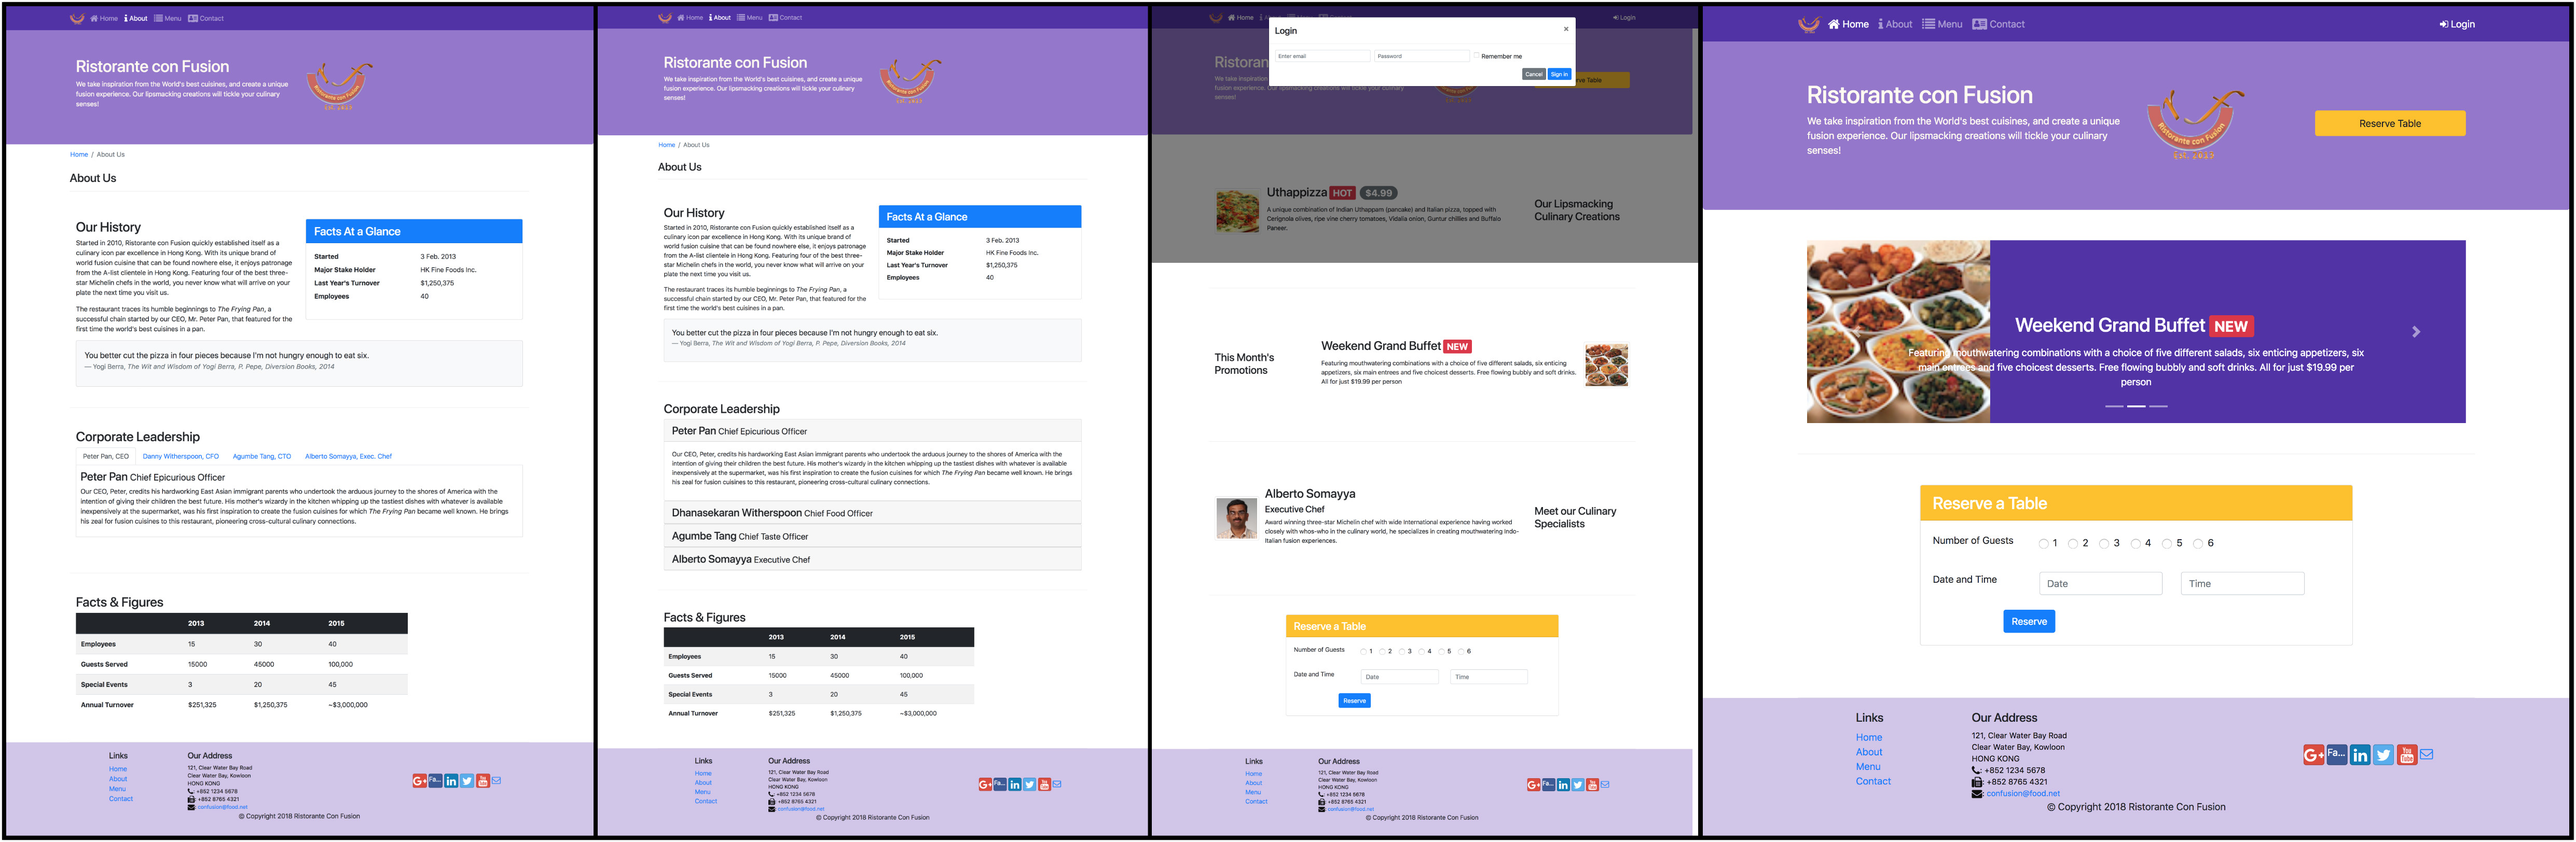
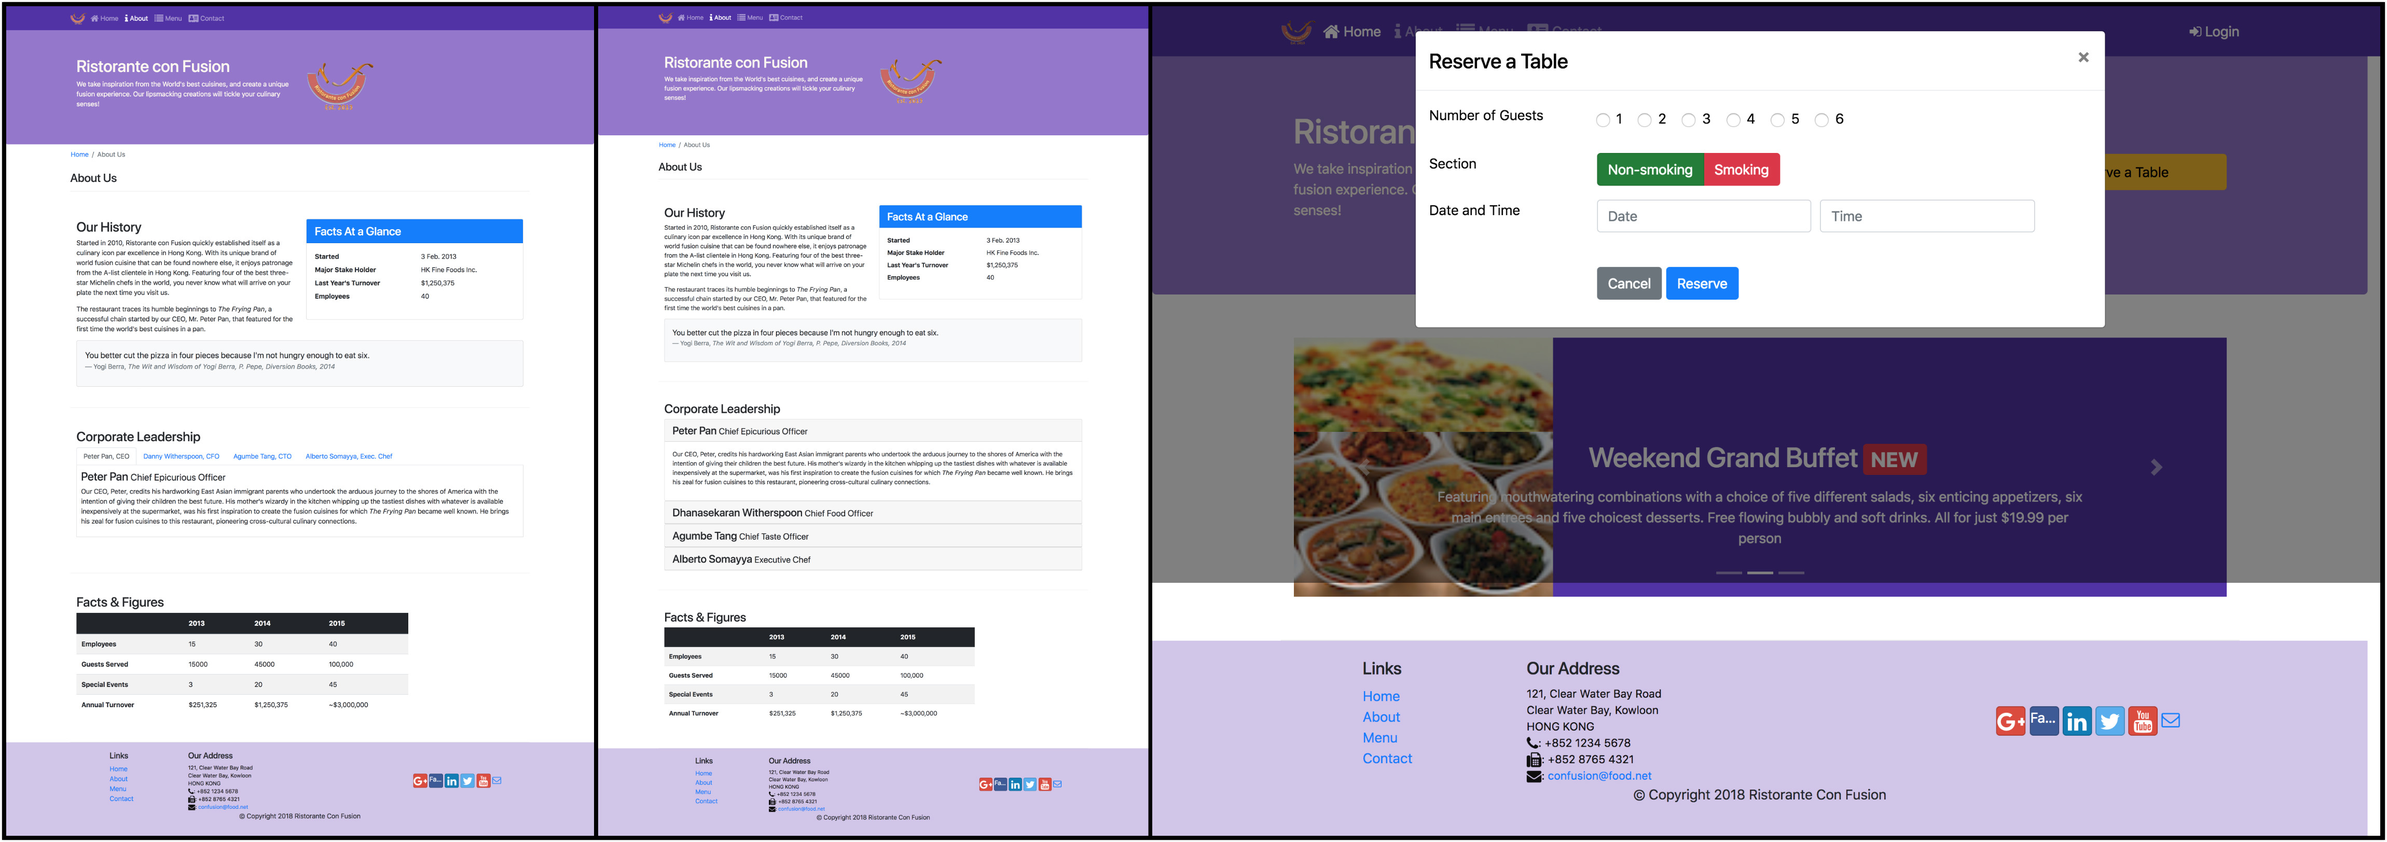
Update content

diff --git a/exercise/Assignment3/index.html b/exercise/Assignment3/index.html
@@ -26,9 +26,9 @@
             <div class="collapse navbar-collapse" id="Navbar">
                 <ul class="navbar-nav mr-auto">
                     <li class="nav-item active"><a class="nav-link" href="#"><span class="fa fa-home fa-lg"></span> Home</a></li>
-                    <li class="nav-item"><a class="nav-link" href="#"><span class="fa fa-info fa-lg"></span> About</a></li>
+                    <li class="nav-item"><a class="nav-link" href="./aboutus.html"><span class="fa fa-info fa-lg"></span> About</a></li>
                     <li class="nav-item"><a class="nav-link" href="#"><span class="fa fa-list fa-lg"></span> Menu</a></li>
-                    <li class="nav-item"><a class="nav-link" href="#"><span class="fa fa-address-card fa-lg"></span> Contact</a></li>
+                    <li class="nav-item"><a class="nav-link" href="contactus.html"><span class="fa fa-address-card fa-lg"></span> Contact</a></li>
                 </ul> 
                 <span class="navbar-text">
                     <a data-toggle="modal" data-target="#loginModal">
@@ -85,15 +85,77 @@
                 <div class="col-12 col-sm-3 align-self-center">
                     <img src="img/logo.png" class="img-fluid">
                 </div>
-                <div class="col-12 col-sm-3 align-self-center">
-                    <a role="button" class="btn btn-block nav-link btn-warning"
-                        data-toggle="tooltip" data-html="true"  title="Or Call us at  <br><strong>+852 12345678</strong>"
-                        data-placement="bottom" href="#reserveform">Reserve Table</a>
+                <div id="reserveButton" class="col-12 col-sm-3 align-self-center">
+                    <!-- Button trigger modal -->
+                    <a role="button" class="modal-title btn btn-block nav-link btn-warning" data-toggle="modal" data-target="#reserveModal">Reserve a Table</a>
+                    <!-- Modal -->
+                    <div id="reserveModal" class="modal fade" role="dialog">
+                        <div class="modal-dialog modal-lg" role="content">
+                            <div class="modal-content">
+                                <div class="modal-header">
+                                    <h4 class="modal-title">Reserve a Table</h4>
+                                    <button type="button" class="close" data-dismiss="modal">&times;</button>
+                                </div>
+                                <div class="modal-body">
+                                    <form>
+                                        <div class="form-row">
+                                                <div class="form-group col-12 col-sm-3">Number of Guests</div>
+                                                <div class="form-group col">
+                                                    <input type="radio" id="choice1" name="number" value="1">&nbsp;
+                                                    <label for="choice1">1</label>
+                                                    <input type="radio" id="choice2" name="number" value="2">&nbsp;
+                                                    <label for="choice2">2</label>   
+                                                    <input type="radio" id="choice3" name="number" value="3">&nbsp;
+                                                    <label for="choice3">3</label>
+                                                    <input type="radio" id="choice4" name="number" value="4">&nbsp;
+                                                    <label for="choice4">4</label>
+                                                    <input type="radio" id="choice5" name="number" value="5">&nbsp;
+                                                    <label for="choice5">5</label>
+                                                    <input type="radio" id="choice6" name="number" value="6">&nbsp;
+                                                    <label for="choice6">6</label>
+                                                </div>
+                                        </div>
+                                        <div class="form-row">
+                                            <div class="form-group col-12 col-sm-3">Section</div>
+                                            <div class="form-group col-12 col-sm">
+                                                <div class="btn-group btn-group-toggle" data-toggle="buttons">
+                                                  <label class="btn btn-success active">
+                                                    <input type="radio" name="options" id="option1" autocomplete="off" checked> Non-smoking
+                                                  </label>
+                                                  <label class="btn btn-danger">
+                                                    <input type="radio" name="options" id="option2" autocomplete="off"> Smoking
+                                                  </label>
+                                                </div>
+                                            </div>
+                                        </div>
+                                        <div class="form-row">
+                                            <div class="form-group col-12 col-sm-3">Date and Time</div>
+                                            <div class="form-group col-12 col-sm-4">
+                                                <input type="text" class="form-control" id="date" name="date" placeholder="Date">
+                                            </div>
+                                            <div class="form-group col-12 col-sm-4">
+                                                <input type="text" class="form-control" id="time" name="time" placeholder="Time">
+                                            </div>                        
+                                        </div>
+                                        <br>
+                                        <div class="form-row">
+                                            <div class="col-sm-3"></div>
+                                            <div class="form-group col">
+                                                <button type="button" class="btn btn-secondary" data-dismiss="modal">Cancel</button>
+                                                <button type="button" class="btn btn-primary">Reserve</button>
+                                            </div>
+                                        </div>
+                                    </form>
+                                </div>
+                            </div>
+                        </div>
+                    </div>
                 </div>
             </div>
         </div>
     </header>
-
+    
+    
     <div class="container">
         <div class="row row-content">
             <div class="col">
@@ -136,56 +198,9 @@
                 </div>
             </div>
         </div>
-        
-        
-        <div class="row row-content">
-            <div class="col-12 col-sm-8 offset-sm-2">
-                <div class="card">
-                    <h3 class="card-header bg-warning text-white" id="reserveform">Reserve a Table</h3>
-                    <div class="card-body">
-                        <div class="row">
-                            <div class="col-12 col-sm-3">Number of Guests</div>
-                            <div class="col">
-                                <input type="radio" id="choice1" name="number" value="1">&nbsp;
-                                <label for="choice1">1</label>
-                                <input type="radio" id="choice2" name="number" value="2">&nbsp;
-                                <label for="choice2">2</label>   
-                                <input type="radio" id="choice3" name="number" value="3">&nbsp;
-                                <label for="choice3">3</label>
-                                <input type="radio" id="choice4" name="number" value="4">&nbsp;
-                                <label for="choice4">4</label>
-                                <input type="radio" id="choice5" name="number" value="5">&nbsp;
-                                <label for="choice5">5</label>
-                                <input type="radio" id="choice6" name="number" value="6">&nbsp;
-                                <label for="choice6">6</label>
-                            </div>
-                        </div>
-                        <br>
-                        <div class="row">
-                            <div class="col-12 col-sm-3">Date and Time</div>
-                            <div class="col-12 col-sm-4">
-                                <input type="text" class="form-control" id="date" name="date" placeholder="Date">
-                            </div>
-                            <div class="col-12 col-sm-4">
-                                <input type="text" class="form-control" id="time" name="time" placeholder="Time">
-                            </div>                        
-                        </div>
-                        <br>
-                        <div class="row">
-                            <div class="col-3"></div>
-                            <div class="col">
-                                <button type="button" class="btn btn-primary">Reserve</button>
-                            </div>
-                        </div>
-                    </div>
-                </div>
-            </div>
-        </div>
     </div>
         
         
-    </div>
-
     <footer class="footer">
         <div class="container">
             <div class="row">             
@@ -193,9 +208,9 @@
                     <h5>Links</h5>
                     <ul class="list-unstyled">
                         <li><a href="#">Home</a></li>
-                        <li><a href="#">About</a></li>
+                        <li><a href="aboutus.html">About</a></li>
                         <li><a href="#">Menu</a></li>
-                        <li><a href="#">Contact</a></li>
+                        <li><a href="contactus.html">Contact</a></li>
                     </ul>
                 </div>
                 <div class="col-7 col-sm-5">
@@ -231,11 +246,6 @@
     <script src="../node_modules/jquery/dist/jquery.slim.min.js"></script>
     <script src="../node_modules/popper.js/dist/umd/popper.min.js"></script>
     <script src="../node_modules/bootstrap/dist/js/bootstrap.min.js"></script>  
-    <script>
-        $(document).ready(function(){
-            $('[data-toggle="tooltip"]').tooltip();
-        });
-    </script>
 
 </body>
 

diff --git a/exercise/Assignment3/CSS/styles.css b/exercise/Assignment3/CSS/styles.css
@@ -1,0 +1,85 @@
+.row-header {
+    margin: 0px auto;
+    padding: 0px auto;
+}
+
+.row-content {
+    margin: 0px auto;
+    padding: 50px 0px 50px 0px;
+    border-bottom: 1px ridge;
+    min-height: 400px;
+}
+
+.footer {
+    background-color: #D1C4E9;
+    padding: 20px 0px;
+}
+
+.jumbotron {
+    padding: 70px 30px;
+    margin: 0px auto;
+    background: #9575CD;
+    color: floralwhite;
+}
+
+.address {
+    font-size: 80%;
+    margin: 0px;
+    color: #0f0f0f;
+}
+
+
+body {
+    padding: 50px 0px 0px 0px;
+    z-index: 0;
+}
+
+.navbar-dark {
+    background-color: #512DA8;
+}
+
+.breadcrumb {
+    background-color: white;
+}
+
+label {
+  margin-right: 15px;
+  line-height: 32px;
+}
+
+.badge {
+    margin: 5px;
+}
+
+
+.tab-content {
+    border-left: 1px solid #ddd;
+    border-right: 1px solid #ddd;
+    border-bottom: 1px solid #ddd;
+    padding: 10px
+}
+
+
+.carousel {
+    background: #512da8;
+}
+
+.carousel-item {
+    height: 300px;
+}
+
+.carousel-item img {
+    position: absolute;
+    top=0;
+    left=0;
+    min-height: 300px;
+}
+
+
+#reserveButton {
+    color: black;
+}
+
+label.btn {
+    margin: 0;
+}

diff --git a/exercise/Tooltip-and-Modal/index.html b/exercise/Tooltip-and-Modal/index.html
@@ -188,7 +188,7 @@
                         </div>
                         <br>
                         <div class="row">
-                            <div class="col-2"></div>
+                            <div class="col-sm-3"></div>
                             <div class="col">
                                 <button type="button" class="btn btn-primary">Reserve</button>
                             </div>

diff --git a/exercise/Assignment2/index.html b/exercise/Assignment2/index.html
@@ -145,7 +145,7 @@
                         </div>
                         <br>
                         <div class="row">
-                            <div class="col-2"></div>
+                            <div class="col-3"></div>
                             <div class="col">
                                 <button type="button" class="btn btn-primary">Reserve</button>
                             </div>
